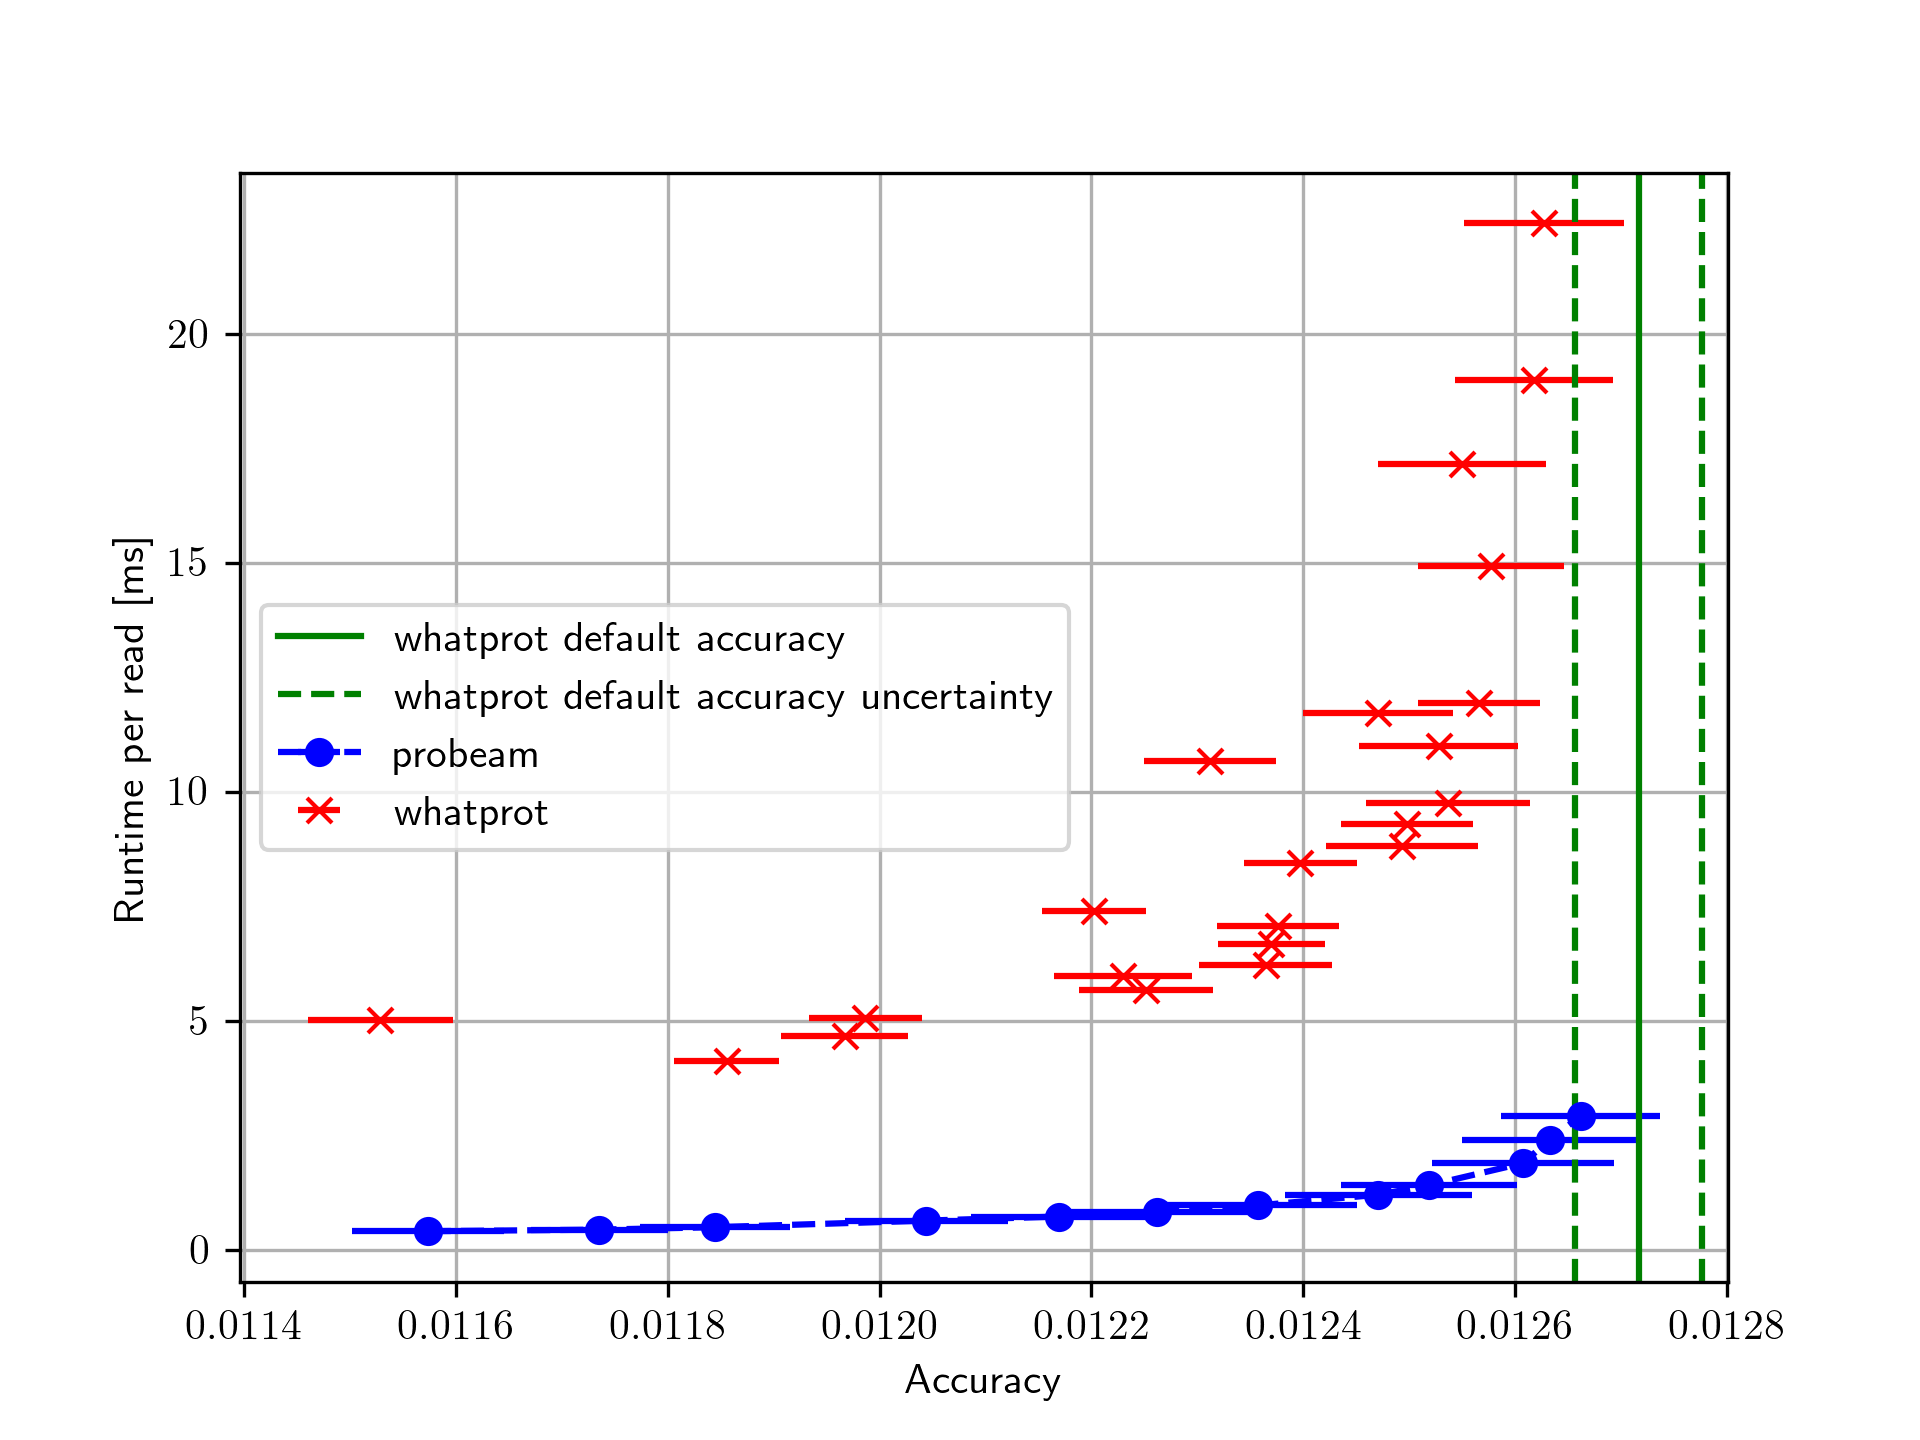
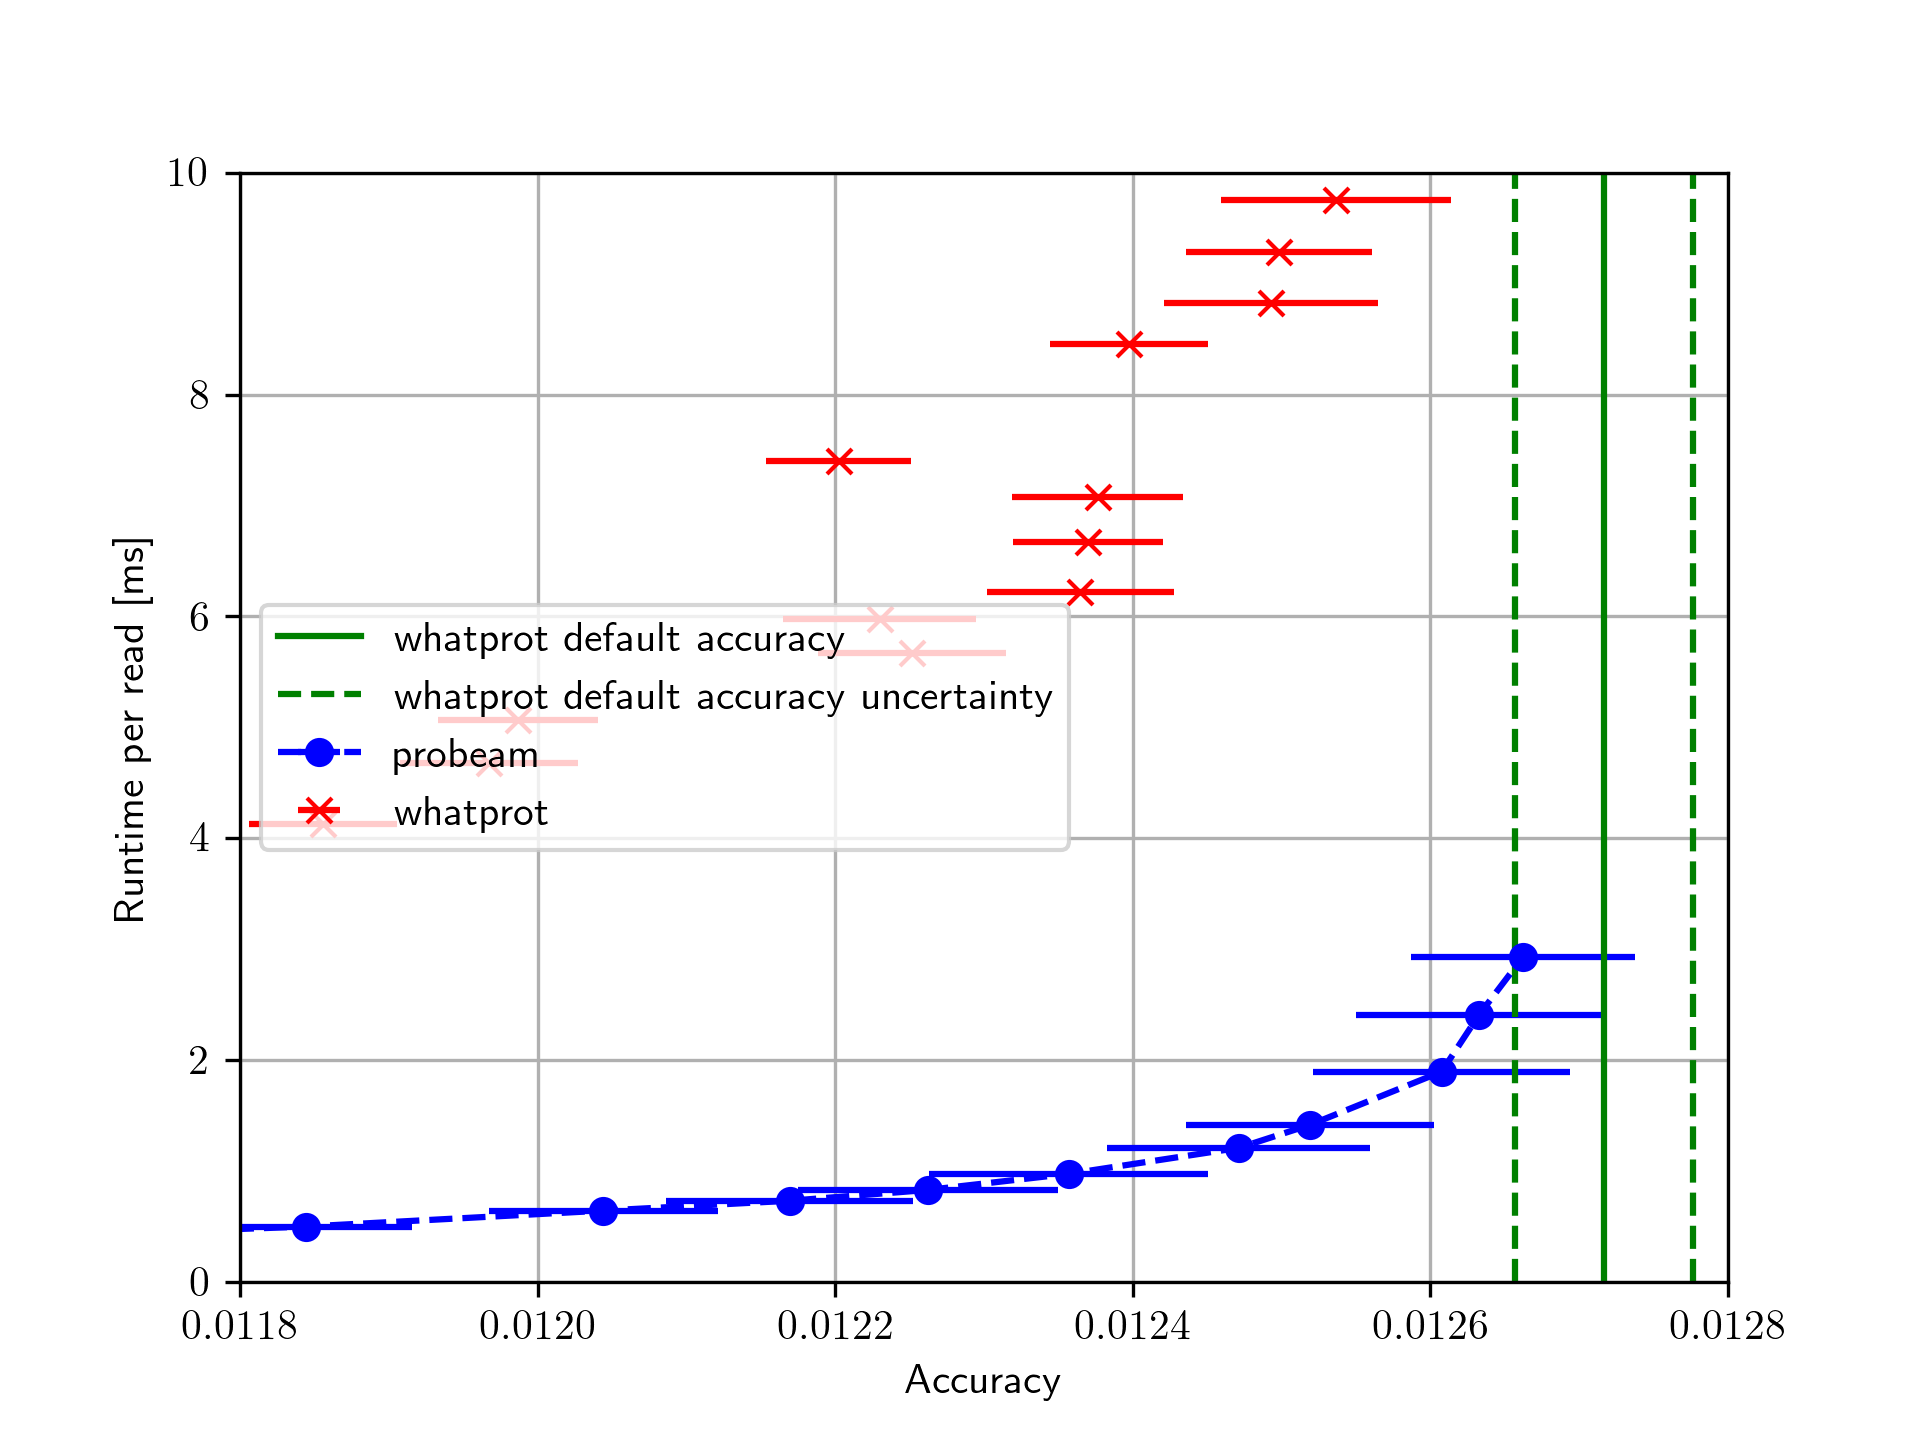
Now added hist plot too

diff --git a/scripts/GenPlots.py b/scripts/GenPlots.py
@@ -14,7 +14,8 @@ import matplotlib.pyplot as plt
 from matplotlib.colors import LogNorm
 
 #datasets_path="C:/Users/JK-WORK/Documents/modifWhatprot/Own/HMM_modif/Datasets/ForPaper/";
-res_ds="../results/"
+res_path="../results/"
+data_path="../data/"
 
 n_proteins=[20,50,100,200,500,1000,2000,5000,10000,20000];
 
@@ -34,9 +35,9 @@ def get_crossval_acc(true_ids, y_pred,dye_seqs_map,n_folds=10):
 
 ###Figure 1 ####
 
-df_probeam=pd.read_csv(res_ds+"NbTable20000Prot.csv")
+df_probeam=pd.read_csv(res_path+"NbTable20000Prot.csv")
 df_probeam=df_probeam.sort_values(by=["N beam"])
-df_whatprot=pd.read_csv(res_ds+"WhatprotParamSweepResults.csv")
+df_whatprot=pd.read_csv(res_path+"WhatprotParamSweepResults.csv")
 df_whatprot_t_info=df_whatprot[df_whatprot["t"] != 0 ] #Keeps only rows with time information (some simulations may have not ended and therefore the time of them is not available.)
 df_whatprot_def_params=df_whatprot[(df_whatprot["K"] == 10000) & (df_whatprot["H"] == 1000)]; #Results from the default params
 df_whatprot_t_info=df_whatprot_t_info.drop(df_whatprot_def_params.index[0]) #Drops the one measurement of the default params
@@ -59,9 +60,10 @@ plt.xlabel("Accuracy")
 plt.ylabel("Runtime per read [ms]")
 plt.grid()
 plt.legend(loc='center left')
+plt.xlim((0.0118, 0.0128))
+plt.ylim((0,10))
 plt.show()
-plt.savefig("../results/AccuracyVsRuntime.png")
-
+plt.savefig(res_path+"AccuracyVsRuntime.png")
 
 """
 
@@ -135,14 +137,15 @@ plt.savefig("results/Runtime.png")
 
 ###Figure 2 ####
 #ipdb.set_trace()
-"""
-dataset_thousand_path=datasets_path+"1000Prot/";
 
-true_ids =  pd.read_csv(dataset_thousand_path+'true-ids.tsv', sep='\t').to_numpy().flatten()
-HMM = pd.read_csv(dataset_thousand_path+'predictionsHMM.csv')
-y_predHMM=HMM['best_pep_iz'].to_numpy(); 
-y_predHMMScore=HMM['best_pep_score'].to_numpy(); 
-Beam = pd.read_csv(dataset_thousand_path+'BeamSearchPred15.csv')
+#dataset_thousand_path=datasets_path+"1000Prot/";
+ds_path=data_path+"LongDatasets/20000Prot/";
+
+true_ids =  pd.read_csv(ds_path+'true-ids.tsv', sep='\t').to_numpy().flatten()
+preds_whatprot = pd.read_csv(ds_path+'predictionsHybrid_K_10000_H_1000.csv')
+y_pred_whatprot=preds_whatprot['best_pep_iz'].to_numpy(); 
+y_pred_score_whatprot=preds_whatprot['best_pep_score'].to_numpy(); 
+Beam = pd.read_csv(ds_path+'BeamSearchPred60.csv')
 y_predB=Beam[' best_pep_iz'].to_numpy(); 
 y_predBScore=Beam[' best_pep_score'].to_numpy(); 
 
@@ -159,9 +162,9 @@ def doHist2D(ypredX,ypredY,varX,varY,labelX,labelY,ids):
     plt.xlabel(labelX)
     plt.ylabel(labelY)
 
-doHist2D(y_predB,y_predHMM,y_predBScore,y_predHMMScore,r'Beam $\textrm{N}_{\textrm{B}}=15$',"HMM",true_ids)
-plt.savefig("results/histComp.eps")
-"""
+doHist2D(y_predB,y_pred_whatprot,y_predBScore,y_pred_score_whatprot,r'Beam $\textrm{N}_{\textrm{B}}=60$',"Whatprot",true_ids)
+plt.savefig(res_path+"histComp.png")
+
 ##Accuracy for table 
 
 """
